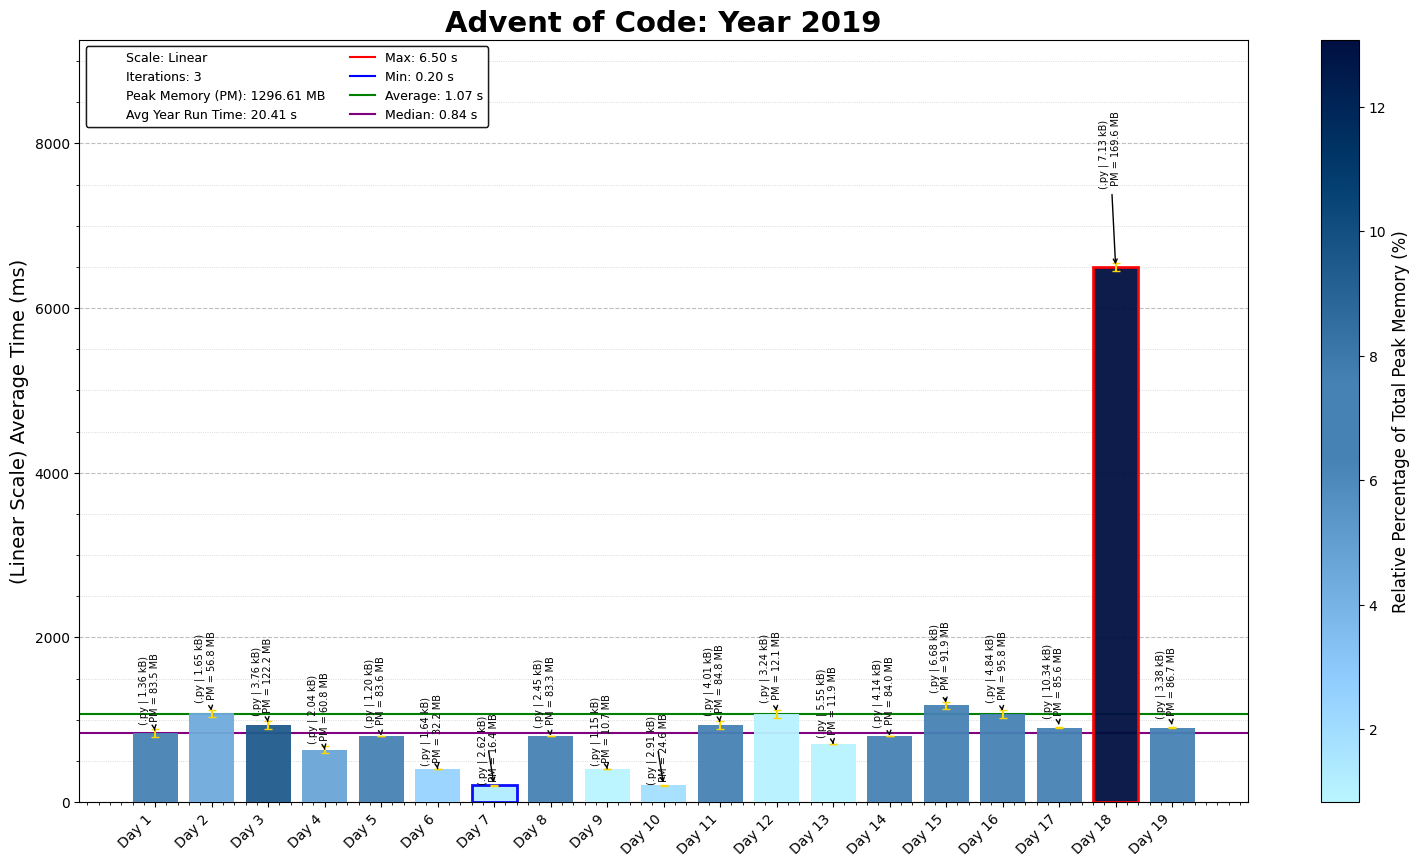
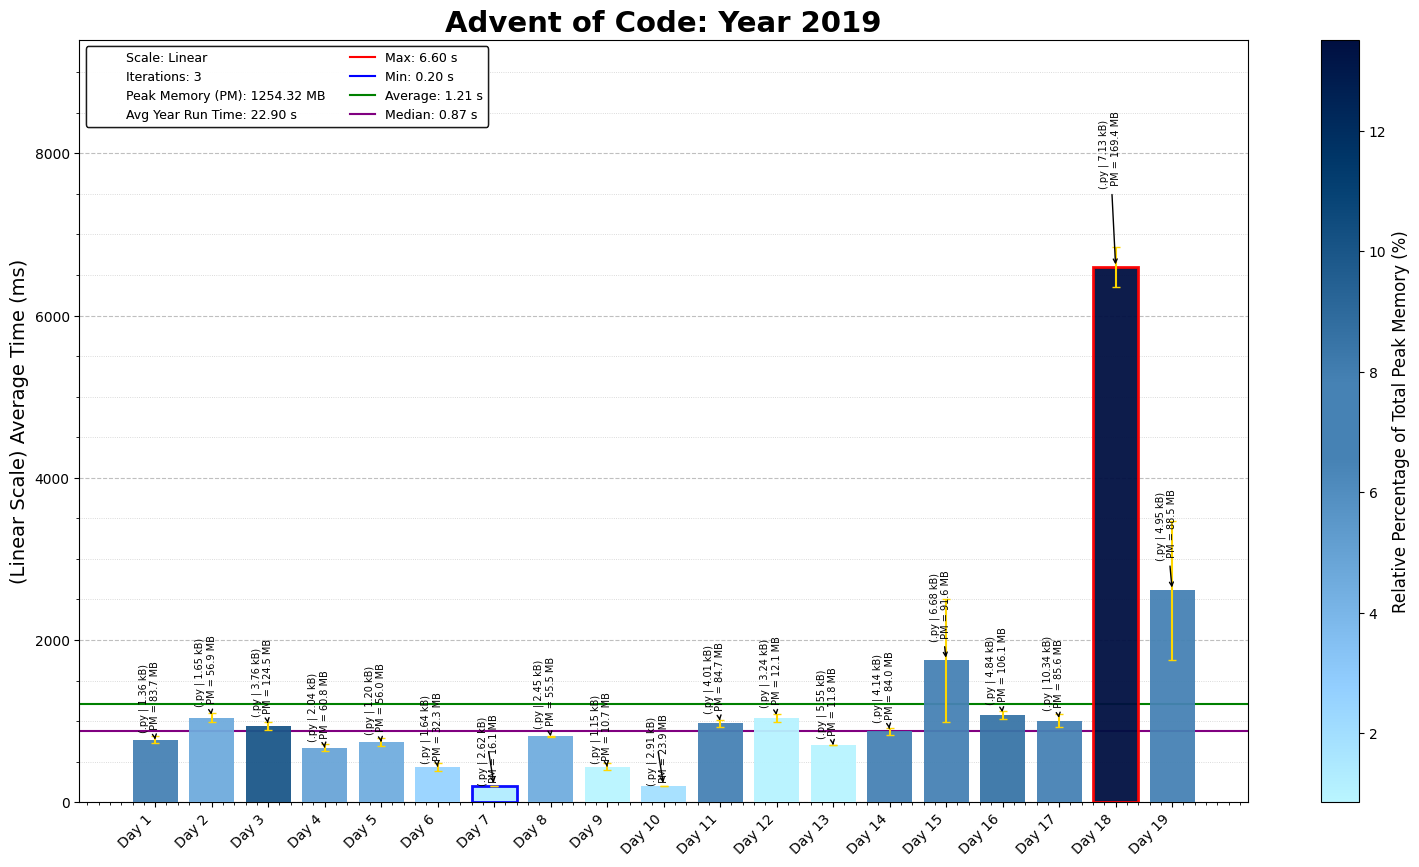
2019 Day 19 P2

diff --git a/2019/19/2019Day19.py b/2019/19/2019Day19.py
@@ -27,47 +27,10 @@ with open(D19_file_path) as file:
     input_program = [int(num) for num in input_data]
 
 class Intcode_Drones:
-    def __init__(self, drone_program: list[str]):
+    def __init__(self, drone_program: list[int]):
         from Intcode_Computer import Intcode_CPU
         self.drone = Intcode_CPU
         self.drone_program = drone_program
-
-    def run_scan(self, scan_area: tuple[int, int], visualize: bool = False) -> int:
-        """
-        Scan the entire grid and count beam emissions with optimizations.
-        Assumes light proagates from single source, so once it ends stop counting for the row,
-        and use the base point for previous row to start calculating
-        """
-        total_emissions = 0
-        horizontal, vertical = scan_area
-        grid_dict = {(x, y):0 for x in range(horizontal) for y in range(vertical)}
-        min_x = 0
-
-        for y in range(vertical):
-            light_found = False
-            for x in range(min_x, horizontal):
-                # Initialize a new drone CPU for each scan
-                drone = self.drone(self.drone_program, init_inputs=[x, y])
-                drone.process_program()
-
-                # Get the beam status output
-                light_emitted = drone.get_result('output')[-1]
-                grid_dict[(x, y)] = light_emitted
-
-                if light_emitted == 1:
-                    if light_found is False:
-                        min_x = x - 1
-                    light_found = True
-                    total_emissions += 1
-                elif light_found and light_emitted == 0:
-                    # Stop scanning after the beam ends on this row
-                    break
-
-        # Visualize the grid if required
-        if visualize:
-            self.print_grid(grid_dict)
-
-        return total_emissions
 
     def print_grid(self, grid_dict: dict):
         """
@@ -78,7 +41,8 @@ class Intcode_Drones:
         max_x = max(x for x, _ in coords_set)
         min_y = min(y for _, y in coords_set)
         max_y = max(y for _, y in coords_set)
-        markers = {0:'.', 1:'#'}
+
+        markers = {0:'.', 1:'#', 2: 'S'}
 
         tiles_grid = []
         for y in range(min_y, max_y + 1):
@@ -92,10 +56,90 @@ class Intcode_Drones:
         print("_" * len(tiles_grid[0]))
         return tiles_grid
 
+    def is_in_beam(self, x: int, y: int) -> bool:
+        """
+        Check if a given coordinate is within the beam by querying the drone.
+        """
+        if x < 0 or y < 0:
+            return False
+        drone = self.drone(self.drone_program, init_inputs=[x, y])
+        drone.process_program()
+        return drone.get_result('output')[-1] == 1
+
+    def scan_area(self, scan_area: tuple[int, int], visualize: bool = False) -> int:
+        """
+        Scan the entire grid and count beam emissions.
+        """
+        width, height = scan_area
+        beam_points = set()
+        grid_dict = {(x, y) : 0 for x in range(width)
+                                for y in range(height)}
+        start_x = 0
+        for y in range(height):
+            beam_active = False
+            start_x = max(0, start_x)
+
+            for x in range(start_x, width):
+                if self.is_in_beam(x, y):
+                    if not beam_active:
+                        start_x = x - 1  # Start scanning from slightly before the beam begins
+                    beam_active = True
+                    beam_points.add((x, y))
+                    grid_dict[(x, y)] = 1
+                elif beam_active:
+                    # Stop scanning after the beam ends on this row
+                    break
+
+        if visualize:
+            self.print_grid(grid_dict)
+
+        return len(beam_points)
+
+    def find_ship(self, ship_size: tuple[int, int], visualize: bool = False) -> tuple[int, int]:
+        """
+        Efficiently find the top-left corner of the ship that fits within the beam.
+        """
+        width, height = ship_size
+        x_pos, y_pos = ship_size
+
+        while True:
+            # Skip unnecessary rows until bottom-right corner fits
+            while not self.is_in_beam(x_pos + width - 1, y_pos):
+                y_pos += 1
+
+            # Skip unnecessary columns until top-left fits
+            while not self.is_in_beam(x_pos, y_pos + height - 1):
+                x_pos += 1
+
+            # Check if the current (x, y) is a valid solution
+            if self.is_in_beam(x_pos + width - 1, y_pos) and self.is_in_beam(x_pos, y_pos + height - 1):
+                break
+
+        if visualize:
+            # Set up grid bounds around the ship for better visualization
+            padding = 5
+            grid_dict = {}
+
+            for x in range(x_pos - padding, x_pos + width + padding):
+                for y in range(y_pos - padding, y_pos + height + padding):
+                    # Populate the grid with beam status
+                    grid_dict[(x, y)] = 1 if self.is_in_beam(x, y) else 0
+
+            # Mark ship corners
+            for ship_y in range(y_pos, y_pos + height):
+                for ship_x in range(x_pos, x_pos + width):
+                    grid_dict[(ship_x, ship_y)] = 2
+
+            # Print the grid
+            self.print_grid(grid_dict)
+
+        return x_pos, y_pos
 
 drones = Intcode_Drones(input_program)
-beam_shape = drones.run_scan((50, 50))
+beam_shape = drones.scan_area((50, 50))
 print("Part 1:", beam_shape)
 
+ship_coord = drones.find_ship((100, 100))
+print("Part 2:", (ship_coord[0] * 10000) + ship_coord[1])
 
-print(f"Execution Time = {time.time() - start_time:.5f}s")
+# print(f"Execution Time = {time.time() - start_time:.5f}s")
